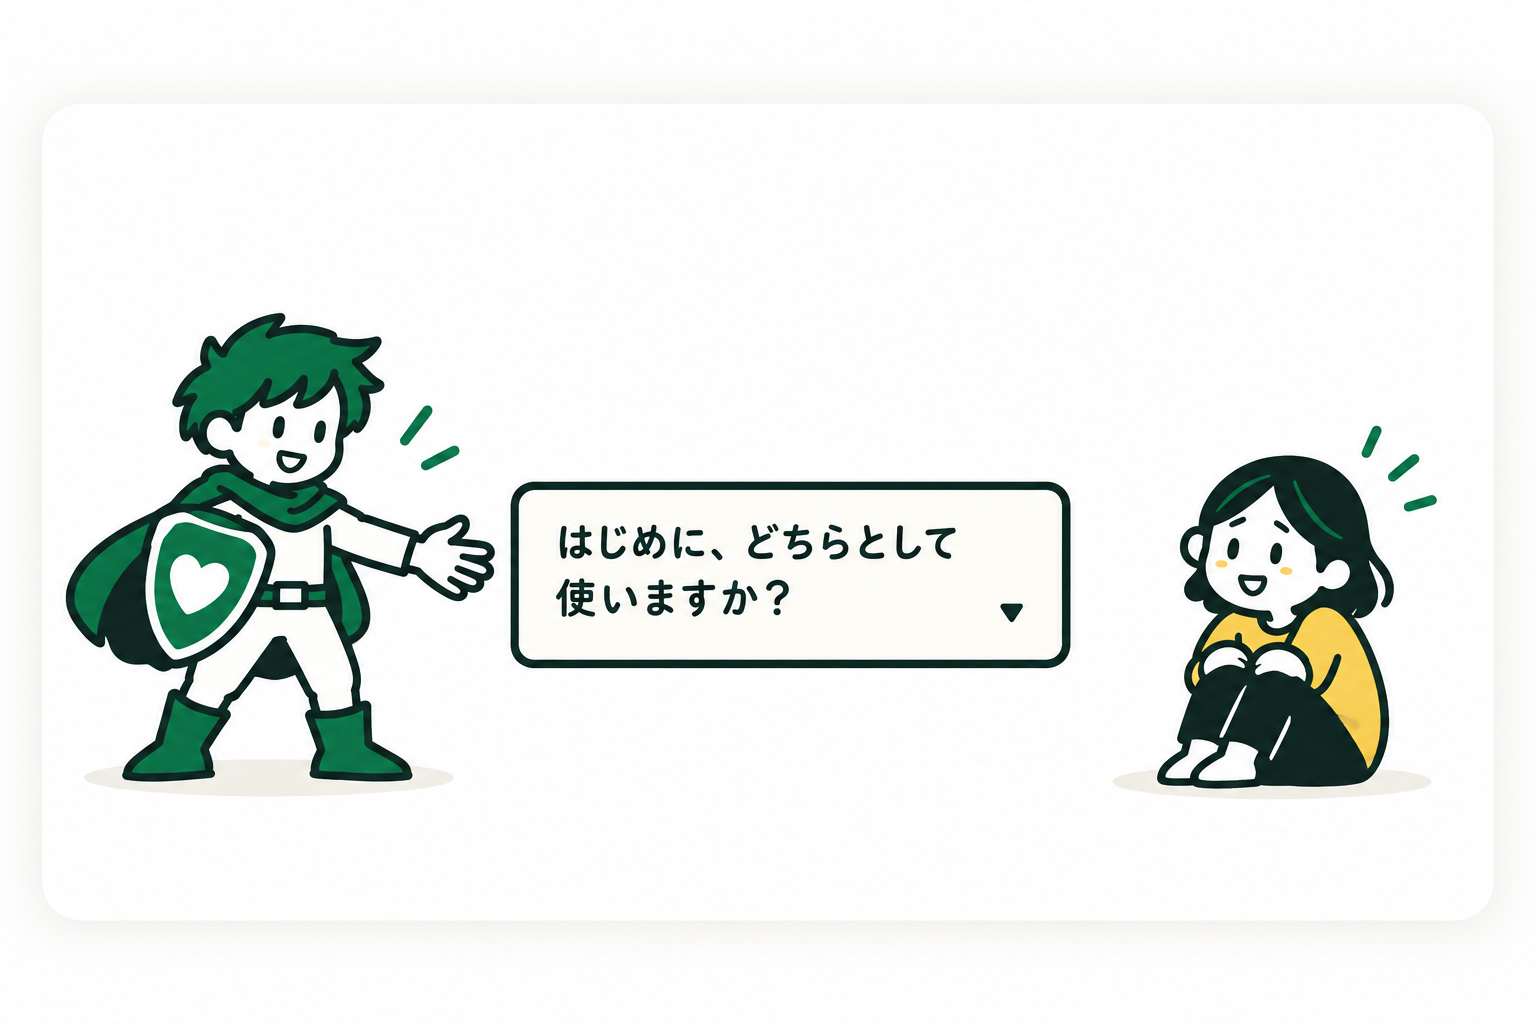
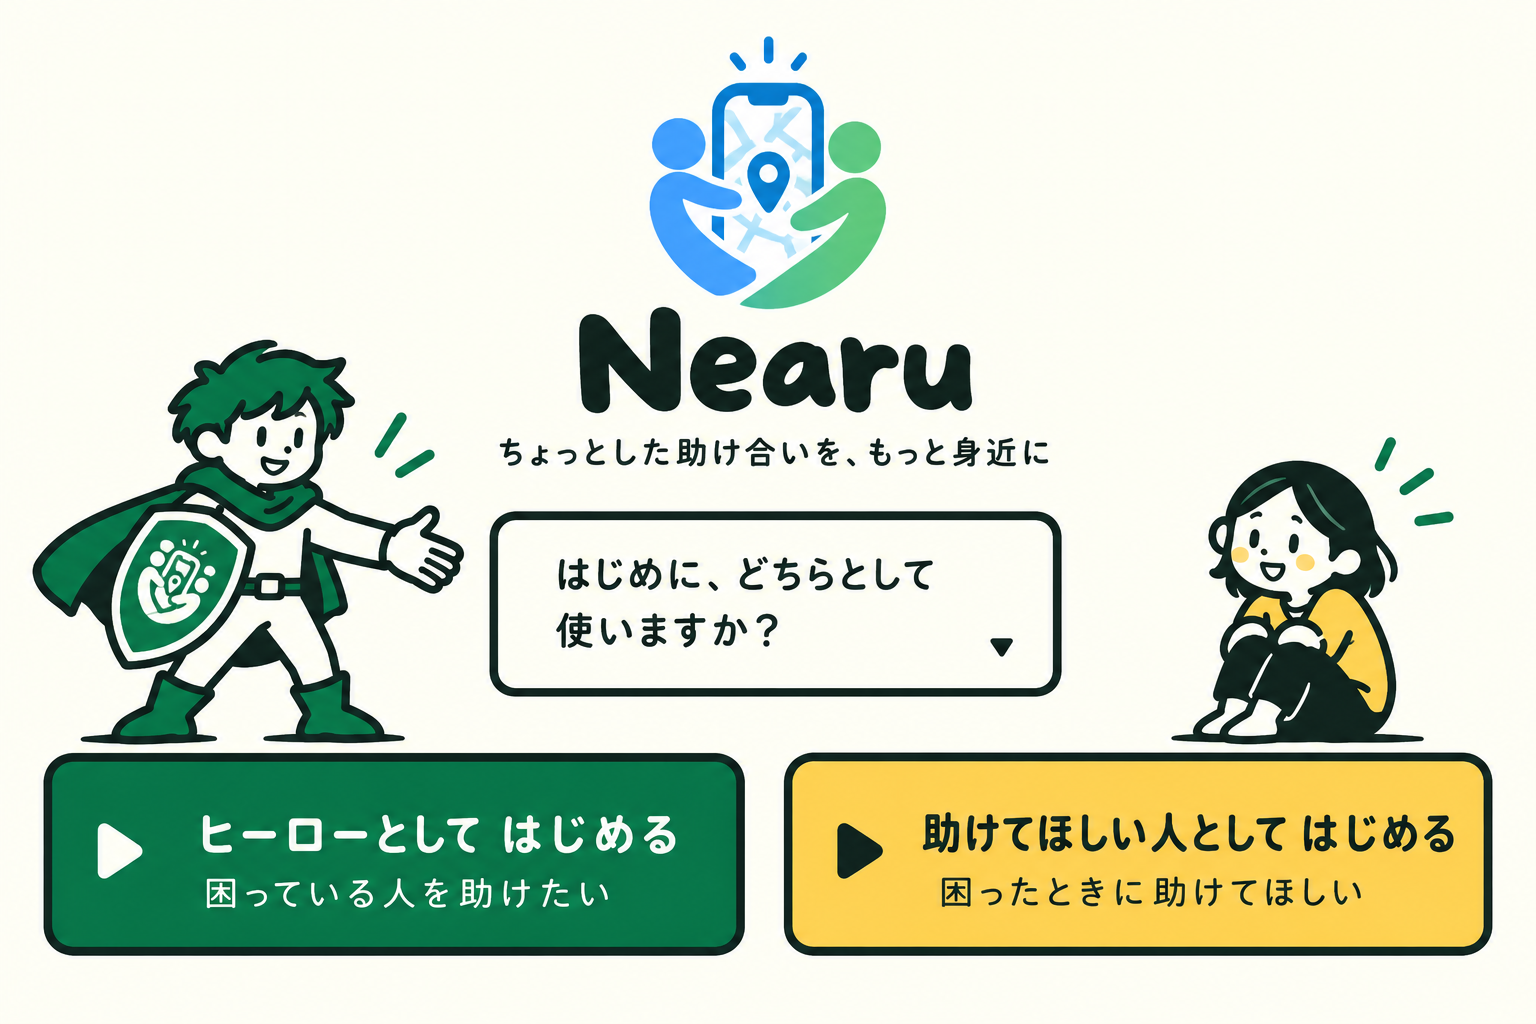
feat: use final Nearu onboarding artwork

diff --git a/frontend/src/pages/Login.css b/frontend/src/pages/Login.css
@@ -155,22 +155,9 @@
   position: relative;
   min-height: 250px;
   flex: 0 0 min(60vh, 66.666vw);
-  background: url('/images/first-screen-art.png') center / cover no-repeat;
+  background: url('/images/first-screen-art.png') center top / cover no-repeat;
   border-bottom: 3px solid #1d2c2a;
   box-shadow: 0 16px 28px rgba(45, 66, 60, .16);
-}
-
-.role-screen__art-logo {
-  position: absolute;
-  top: clamp(10px, 2vw, 20px);
-  left: 50%;
-  width: clamp(96px, 12vw, 150px);
-  height: auto;
-  transform: translateX(-50%);
-  border: 5px solid rgba(255, 255, 255, .9);
-  border-radius: 18px;
-  background: #fff;
-  box-shadow: 0 12px 25px rgba(43, 61, 55, .18);
 }
 
 .role-screen__heading {
@@ -282,7 +269,13 @@
 @media (max-width: 640px) {
   .profile-stage { padding: 0; }
   .profile-setup { min-height: 100vh; min-height: 100dvh; border: 0; border-radius: 0; box-shadow: none; }
-  .role-screen__art { min-height: 220px; flex: 0 0 40vh; background-position: center 24%; }
+  .role-screen__art {
+    min-height: 0;
+    flex: 0 0 min(56vw, 230px);
+    background-size: 130% auto;
+    background-position: center top;
+    background-color: #fffdf5;
+  }
   .role-screen__choices { grid-template-columns: 1fr; gap: 10px; padding-inline: 16px; }
   .role-screen__heading { padding-inline: 16px; }
   .role-screen__note { margin-inline: 16px; }

diff --git a/frontend/src/pages/Login.tsx b/frontend/src/pages/Login.tsx
@@ -91,9 +91,7 @@ export default function Login() {
     return (
       <main className="role-stage">
         <section className="role-screen" aria-labelledby="role-title">
-          <div className="role-screen__art">
-            <img className="role-screen__art-logo" src={nearuLogo} alt="Nearu" />
-          </div>
+          <div className="role-screen__art" aria-hidden="true" />
           <div className="role-screen__heading">
             <p id="role-title">はじめに、どちらとして使いますか？</p>
           </div>
